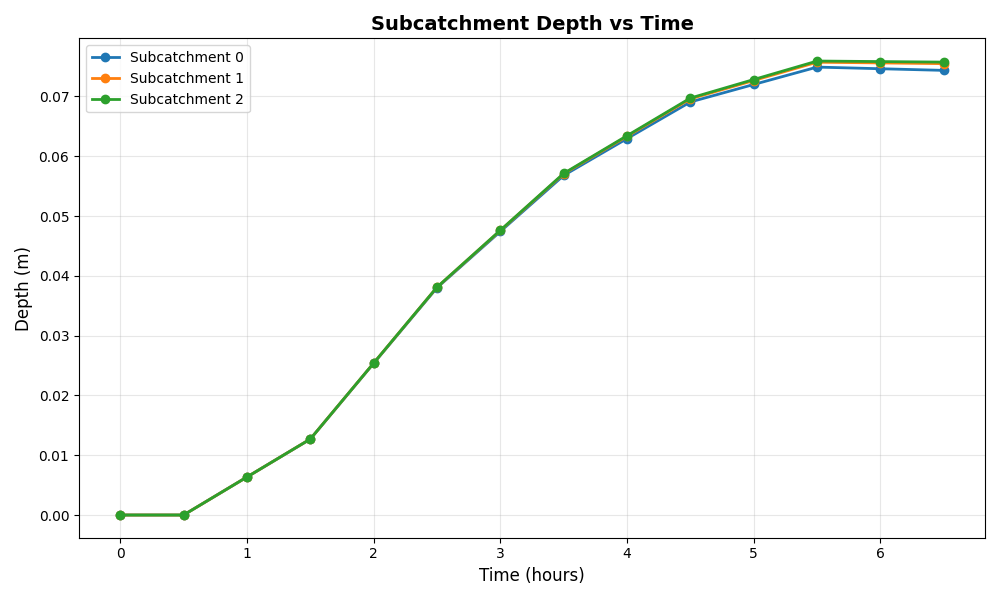
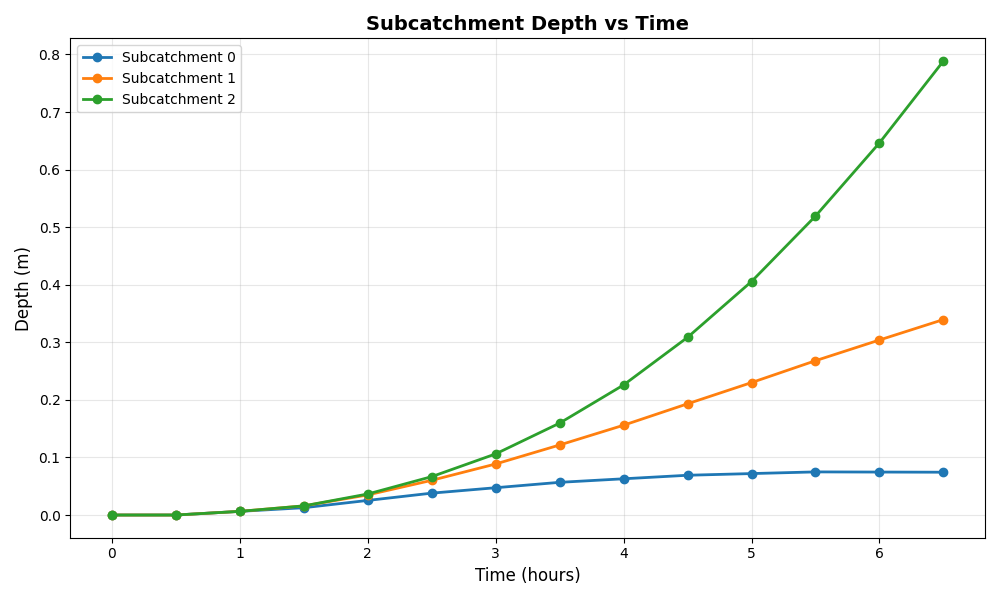
Fixed subcatchment runoff

diff --git a/app/network.py b/app/network.py
@@ -39,7 +39,7 @@ class SubcatchmentGraph:
                                   'depth': np.array([0.0,0.0,0.0])
                                   })
         else:
-            self.G = ig.Graph(n=n,edges=[[0,1],[1,2]], directed=True,
+            self.G = ig.Graph(n=n,edges=[(0,1),(1,2)], directed=True,
                               vertex_attrs={
                                   'area': np.array([10000.0,10000.0,10000.0]),
                                   'width': np.array([100.0,100.0,100.0]),
@@ -81,19 +81,20 @@ class SubcatchmentGraph:
             """
             y = np.zeros(self.G.vcount())
             outflow = np.zeros(self.G.vcount())
+            incomingRunoff = np.zeros(self.G.vcount())
             for i in self.G.topological_sorting():
                 # calculate incoming runoff, using top sorting to guarantee the previous runoffs are already computed
                 inEdges = self.G.vs[i].in_edges()
-                incomingRunoff = 0
                 for e in inEdges:
-                    incomingRunoff += e.source
+                    incomingRunoff[i] += self.G.vs['depth'][e.source]
 
                 # alpha in manning equation
                 a = (self.G.vs['width'][i] * np.power(self.G.vs['slope'][i], 0.5)) / (self.G.vs['area'][i] * self.G.vs['n'][i])
                 depth_above_invert = np.maximum(x[i] - self.G.vs['invert'][i], 0.0)
                 # outgoingRunoff
                 outflow[i] = a * np.power(depth_above_invert, 5/3)
-                y[i] = rainfall + incomingRunoff - outflow[i]
+                y[i] = rainfall + incomingRunoff[i] - outflow[i]
+            print(f"incomingRunoff: {incomingRunoff}")
             return y
     
         # NOTE: RK45 returns an iterator we need to use solve_ivp

diff --git a/app/subcatchmentExample.py b/app/subcatchmentExample.py
@@ -6,10 +6,11 @@ import random
 from .network import SubcatchmentGraph
 
 
+
 if __name__ == "__main__":
     rainfall = [0.0,0.5,1.0,0.75,0.5,0.25,0.0]
     rainfall = [e * 0.0254 for e in rainfall]
-    g = SubcatchmentGraph(3)
+    g = SubcatchmentGraph(3, 2)
     subcatchment = []
     for i in range(len(rainfall)):
         subcatchment.append(g.update(2*i,0.5,rainfall[i]))
